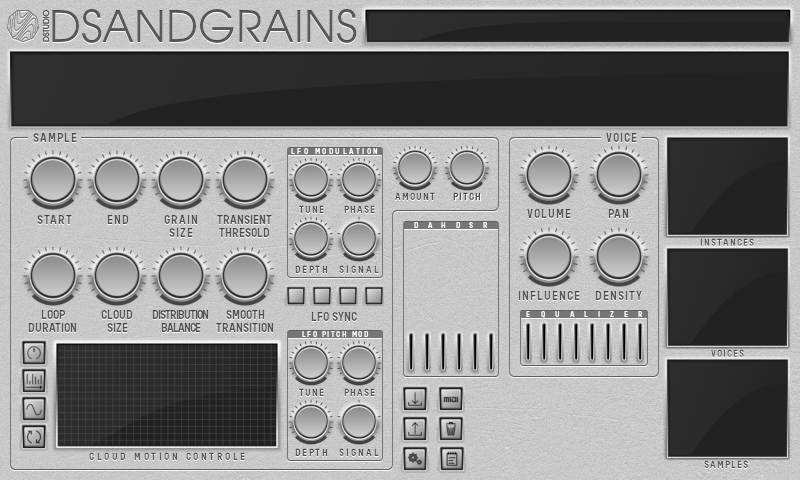
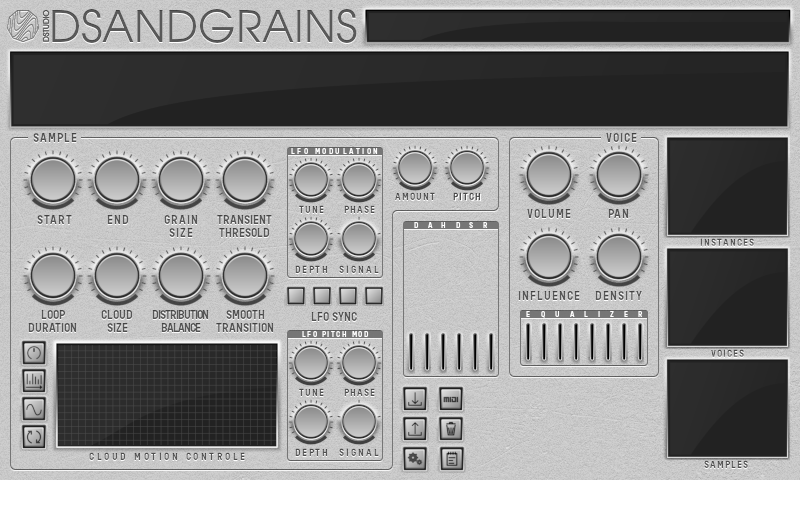
try to fix pixel interpolation. reorganize ui elements

diff --git a/src/open_file.c b/src/open_file.c
@@ -152,9 +152,9 @@ void init_open_menu(
         DSTUDIO_FLAG_NONE
     );
 
-    /* round to avoid rendering glitch */
-    GLfloat buttons_height = DSTUDIO_ROUND(-1.0 + ((GLfloat) DSTUDIO_OPEN_FILE_BUTTON_OFFSET_Y) / (GLfloat) g_dstudio_viewport_height, 100);
-
+    GLfloat buttons_pos_y = -1.0 +((GLfloat) DSTUDIO_OPEN_FILE_BUTTON_OFFSET_Y) / (GLfloat) (g_dstudio_viewport_height>>1);
+    /* Add a half-pixel to minimize interpolation */
+    buttons_pos_y += 0.5 / (GLfloat) (g_dstudio_viewport_height>>1);
     texture_ids[0] = setup_texture_n_scale_matrix(
         DSTUDIO_FLAG_USE_ALPHA,
         DSTUDIO_OPEN_FILE_BUTTONS_WIDTH,
@@ -176,7 +176,7 @@ void init_open_menu(
         &texture_ids[0],
         &s_open_file_buttons_scale_matrix[0],
         1.0 - (((GLfloat) DSTUDIO_CANCEL_BUTTON_OFFSET_X) / g_dstudio_viewport_width),
-        buttons_height,
+        buttons_pos_y,
         DSTUDIO_OPEN_FILE_BUTTONS_WIDTH,
         DSTUDIO_OPEN_FILE_BUTTONS_WIDTH,
         0,
@@ -211,7 +211,7 @@ void init_open_menu(
         &texture_ids[0],
         &s_open_file_buttons_scale_matrix[0],
         1.0 - (((GLfloat) DSTUDIO_OPEN_FILE_BUTTON_OFFSET_X) / g_dstudio_viewport_width),
-        buttons_height, 
+        buttons_pos_y, 
         DSTUDIO_OPEN_FILE_BUTTONS_WIDTH,
         DSTUDIO_OPEN_FILE_BUTTONS_WIDTH,
         0,
@@ -257,6 +257,9 @@ void init_open_menu(
     );
 
     s_list_lines_number = (DSTUDIO_OPEN_FILE_LIST_BOX_HEIGHT / 18) - 2;
+    #ifdef DSTUDIO_DEBUG
+        printf("Open file menu should have %u lines.\n", s_list_lines_number);
+    #endif
 
     s_slider_background_scale_matrix[0].x = (GLfloat) DSTUDIO_SLIDER_BACKGROUND_WIDTH / (GLfloat) g_dstudio_viewport_width;
     s_slider_background_scale_matrix[1].y = (GLfloat) (DSTUDIO_SLIDER_BACKGROUND_HEIGHT/3) / (GLfloat) g_dstudio_viewport_height;
@@ -266,7 +269,7 @@ void init_open_menu(
         &texture_ids[0],
         &s_slider_background_scale_matrix[0],
         1.0 - (((GLfloat) DSTUDIO_OPEN_FILE_SLIDER_BACKGROUND_OFFSET_X) / g_dstudio_viewport_width),
-        DSTUDIO_ROUND(((GLfloat) s_list_lines_number*18-9) / (GLfloat) (g_dstudio_viewport_height), 1000),
+        ((GLfloat) s_list_lines_number*18-9) / (GLfloat) (g_dstudio_viewport_height),
         18,
         s_list_lines_number*18,
         0,

diff --git a/src/dsandgrains/ui.c b/src/dsandgrains/ui.c
@@ -129,6 +129,8 @@ inline static void init_background() {
         DSANDGRAINS_BACKGROUND_ASSET_PATH,
         background_scale_matrix
     );
+    
+    
 
     init_ui_elements(
         &g_ui_elements_struct.background,
@@ -419,7 +421,8 @@ inline static void init_ressource_usage() {
         &textures_ids[0],
         &ressource_usage_prompt_scale_matrix[0],
         DSANDGRAINS_RESSOURCE_USAGE_PROMPT_POS_X,
-        DSANDGRAINS_RESSOURCE_USAGE_PROMPT_POS_Y,
+        /* Add a half-pixel to minimize interpolation */
+        DSANDGRAINS_RESSOURCE_USAGE_PROMPT_POS_Y - (0.5 / g_dstudio_viewport_height),
         DSTUDIO_RESSOURCE_USAGE_WIDTH,
         DSTUDIO_RESSOURCE_USAGE_HEIGHT,
         0,
@@ -624,7 +627,9 @@ static void init_dsandgrains_ui_elements() {
     init_list_item_highlights();
 
     init_arrow_instance_buttons();
+
     init_background();
+
     init_buttons_management();
     init_instances_list();
     init_knobs();
@@ -642,17 +647,17 @@ static void init_dsandgrains_ui_elements() {
     for (unsigned int i = 4; i < g_menu_background_index; i++) {
         g_ui_elements_array[i].enabled = 1;
     }
+
 }
 
 void * ui_thread(void * arg) {
     (void) arg;
-
+    
     SET_UI_MENU_BACKGROUND_INDEX
     
     init_ui();
-
     init_dsandgrains_ui_elements();
-    
+
     init_ressource_usage_thread(
         DSTUDIO_RESSOURCE_USAGE_STRING_SIZE,
         &g_ui_elements_struct.cpu_usage,
@@ -665,14 +670,14 @@ void * ui_thread(void * arg) {
         DSANDGRAINS_SCROLLABLE_LIST_STRING_SIZE,
         DSANDGRAINS_SCROLLABLE_LIST_ITEM_OFFSET
     );
-    
+
     init_voices_interactive_list(
         &g_ui_elements_struct.voices_list_item_highlight,
         DSANDGRAINS_VOICE_SCROLLABLE_LIST_SIZE,
         DSANDGRAINS_SCROLLABLE_LIST_STRING_SIZE,
         DSANDGRAINS_SCROLLABLE_LIST_ITEM_OFFSET
     );
-    
+
     bind_voices_interactive_list(NULL);
 
     init_threaded_ui_element_updater_register(4);

diff --git a/src/dsandgrains/ui.h b/src/dsandgrains/ui.h
@@ -65,7 +65,7 @@
 
 #define DSANDGRAINS_CPU_USAGE_WIDTH 48
 #define DSANDGRAINS_CPU_USAGE_HEIGHT 10
-#define DSANDGRAINS_CPU_USAGE_Y_POS 0.916667
+#define DSANDGRAINS_CPU_USAGE_Y_POS 0.921875
 
 #define DSANDGRAINS_DAHDSR_SLIDERS_COLUMNS 6
 #define DSANDGRAINS_DAHDSR_SLIDERS_COUNT 6
@@ -110,10 +110,10 @@
 #define DSANDGRAINS_LFO_PITCH_KNOBS_OFFSET_Y -0.2483
 #define DSANDGRAINS_LFO_PITCH_KNOBS_COLUMNS 2
 
-#define DSANDGRAINS_MEM_USAGE_OFFSET_Y -0.054166
+#define DSANDGRAINS_MEM_USAGE_OFFSET_Y -0.05078125
 
 #define DSANDGRAINS_RESSOURCE_USAGE_PROMPT_POS_X -0.035
-#define DSANDGRAINS_RESSOURCE_USAGE_PROMPT_POS_Y 0.891666
+#define DSANDGRAINS_RESSOURCE_USAGE_PROMPT_POS_Y 0.8984375
 #define DSANDGRAINS_RESSOURCE_USAGE_STRING_SIZE 6
 
 #define DSANDGRAINS_SAMPLE_KNOBS_COLUMNS 4
@@ -238,6 +238,8 @@ typedef struct UIElementsStruct_t {
     UIElements open_file_list_item_18;
     UIElements open_file_list_item_19;
     UIElements open_file_list_item_20;
+    UIElements open_file_list_item_21;
+    UIElements open_file_list_item_22;
 } UIElementsStruct;
 
 void * ui_thread(void * arg);

diff --git a/src/common.h b/src/common.h
@@ -106,7 +106,7 @@ typedef struct ThreadControl_t {
 #define DSTUDIO_OPEN_FILE_BUTTON_COLUMNS 1
 #define DSTUDIO_OPEN_FILE_BUTTON_COUNT 1
 #define DSTUDIO_OPEN_FILE_BUTTON_OFFSET_X 92
-#define DSTUDIO_OPEN_FILE_BUTTON_OFFSET_Y 38
+#define DSTUDIO_OPEN_FILE_BUTTON_OFFSET_Y 19
 #define DSTUDIO_OPEN_FILE_BUTTONS_WIDTH 68
 #define DSTUDIO_OPEN_FILE_BUTTONS_HEIGHT 15
 
@@ -186,9 +186,6 @@ typedef struct ThreadControl_t {
         printf("%s:%d !" #value "\n", __FILE__, __LINE__); \
         return -1; \
     }
-
-#define DSTUDIO_ROUND(value, round) \
-    (roundf((value) * round) / round)
 
 #define DSTUDIO_TRACE \
     printf("%s %d\n", __FILE__, __LINE__);

diff --git a/src/extensions.c b/src/extensions.c
@@ -116,7 +116,8 @@ int load_extensions() {
     GLint extensions_count;
     glGetIntegerv(GL_NUM_EXTENSIONS, &extensions_count);
     printf("Extensions count: %d.\n", extensions_count);
-    for (GLint i=0; i < extensions_count; i++) { 
+
+    for (GLint i=0; i < extensions_count; i++) {
         const char* extension = (const char*) glGetStringi(GL_EXTENSIONS, i);
         printf("Extention\t%d : %s\n", i, extension);
     }

diff --git a/src/dsandgrains/main.c b/src/dsandgrains/main.c
@@ -29,7 +29,7 @@
 #include "ui.h"
 
 const unsigned int g_dstudio_viewport_width = 800;
-const unsigned int g_dstudio_viewport_height = 480;
+const unsigned int g_dstudio_viewport_height = 512;
 const char g_application_name[] = "DSANDGRAINS";
 
 /* Allow generic DStudio UI features (like render loop) to deal with an 

diff --git a/src/voices.c b/src/voices.c
@@ -57,6 +57,7 @@ void init_voices_interactive_list(
     s_lines_number = lines_number;
     s_string_size = string_size;
     s_item_offset_y = item_offset_y;
+    
     init_interactive_list(
         &g_ui_voices,
         s_ui_elements,
